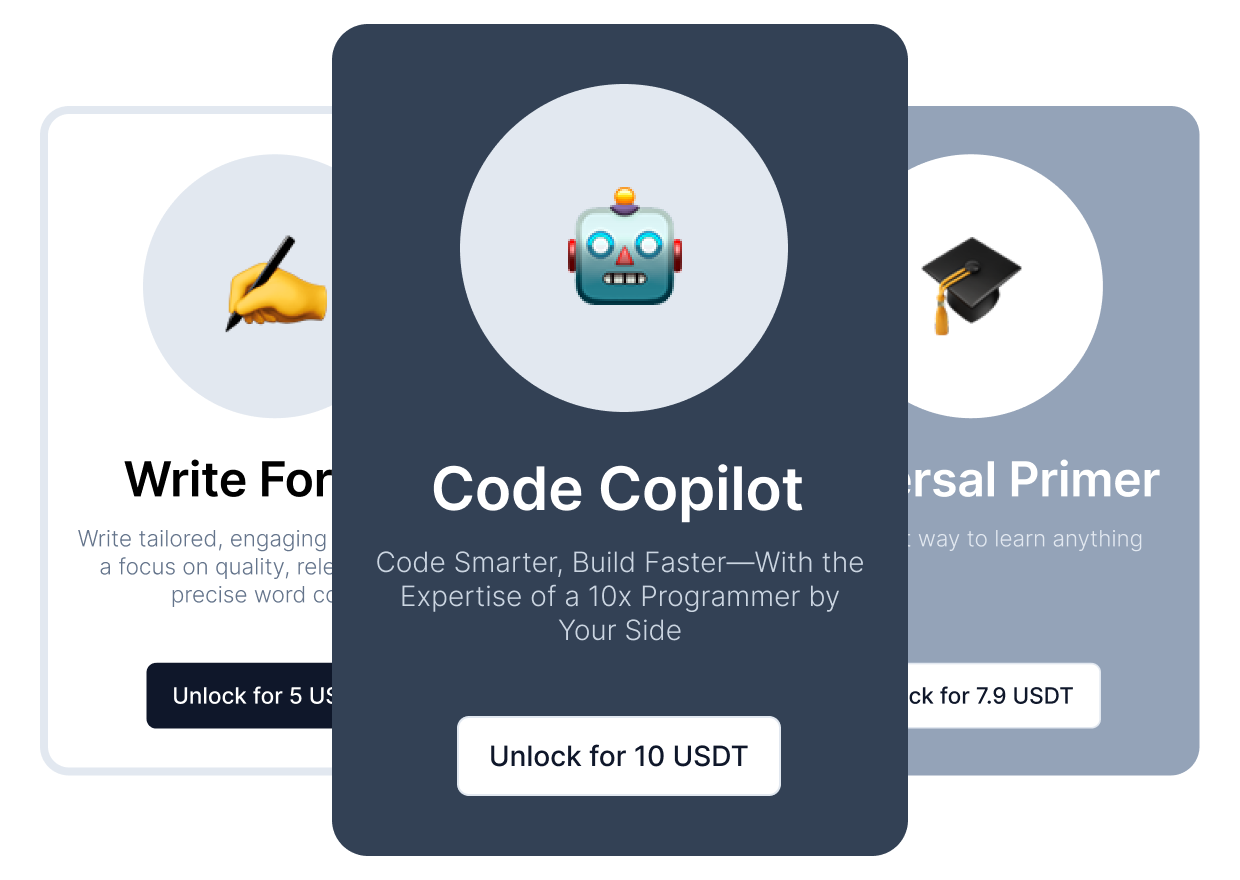
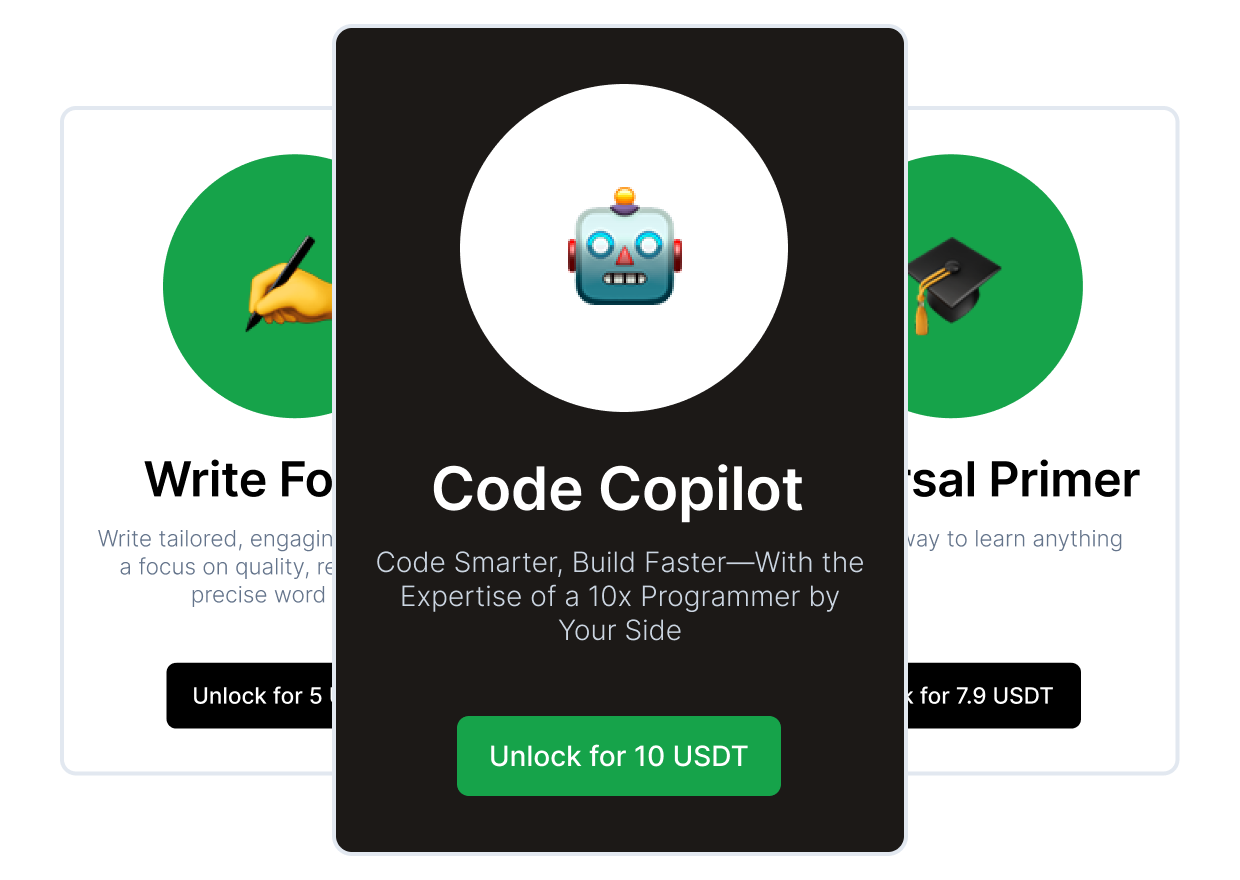
Update image on landing page

diff --git a/app/app/(admin)/page.tsx b/app/app/(admin)/page.tsx
@@ -21,7 +21,7 @@ export default function LandingPage() {
         </Link>
       </section>
       {/* Image */}
-      <section className="flex flex-col items-center max-w-[480px]">
+      <section className="flex flex-col items-center max-w-[580px]">
         <Image
           src="/images/ai-apps.png"
           alt="AI Apps"
